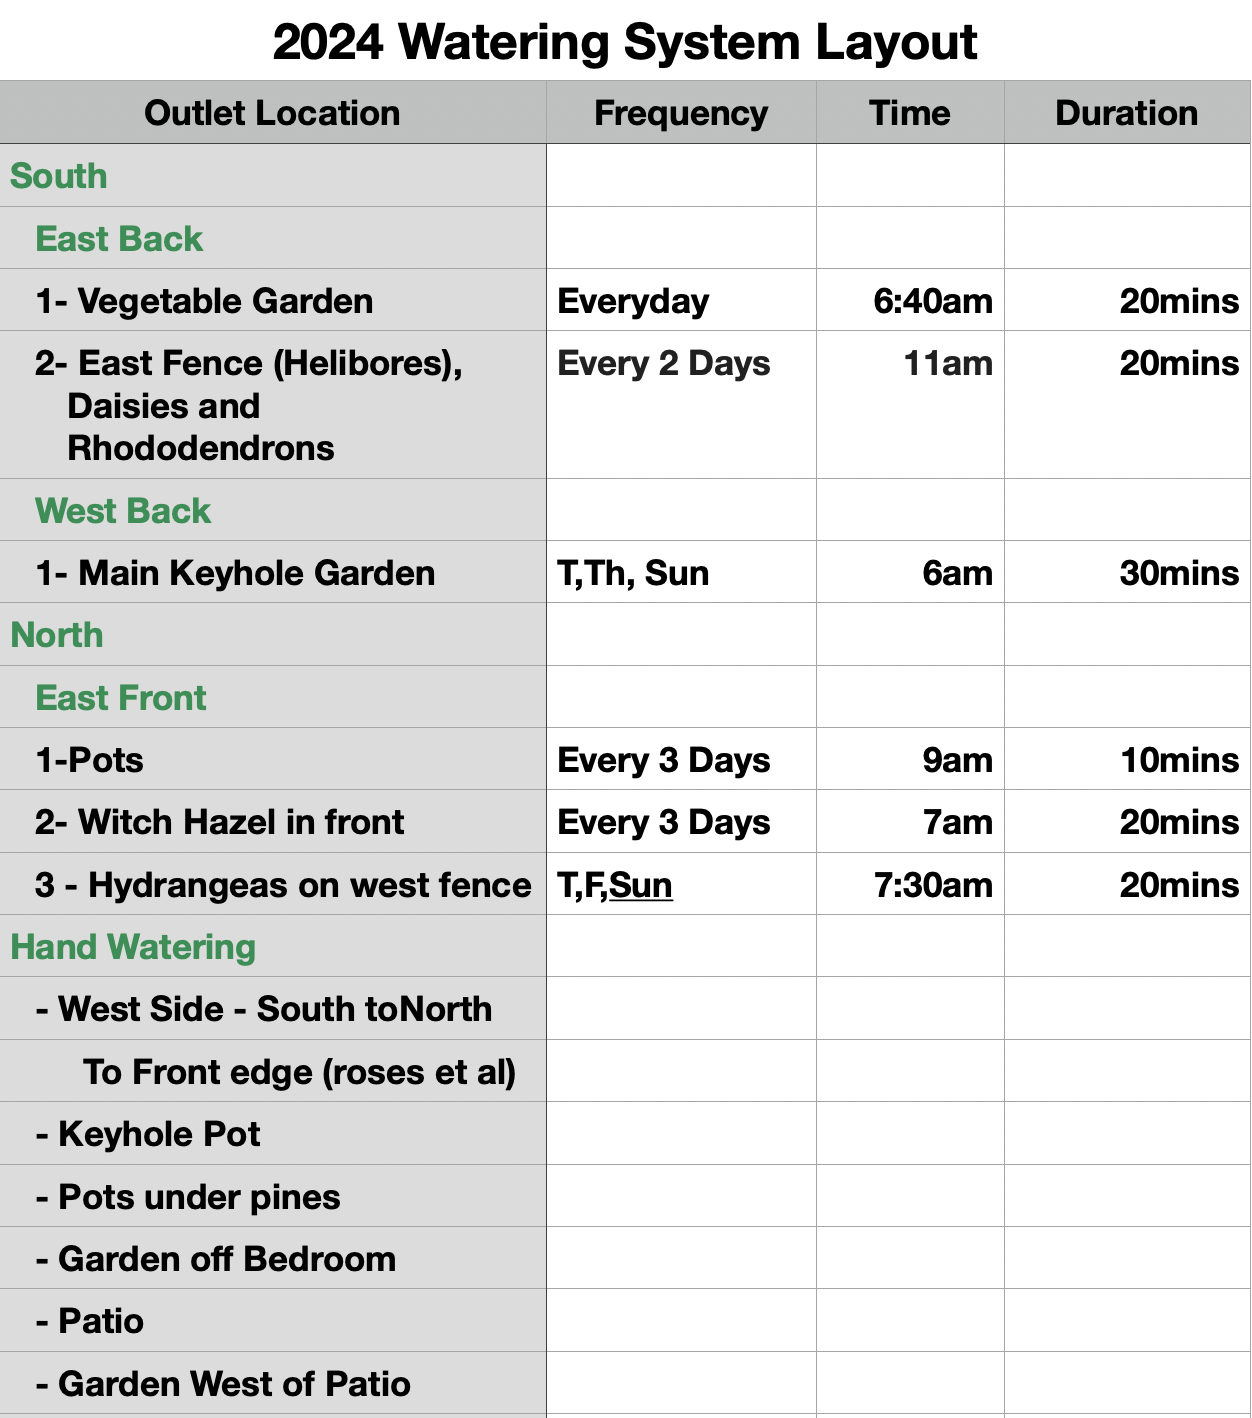
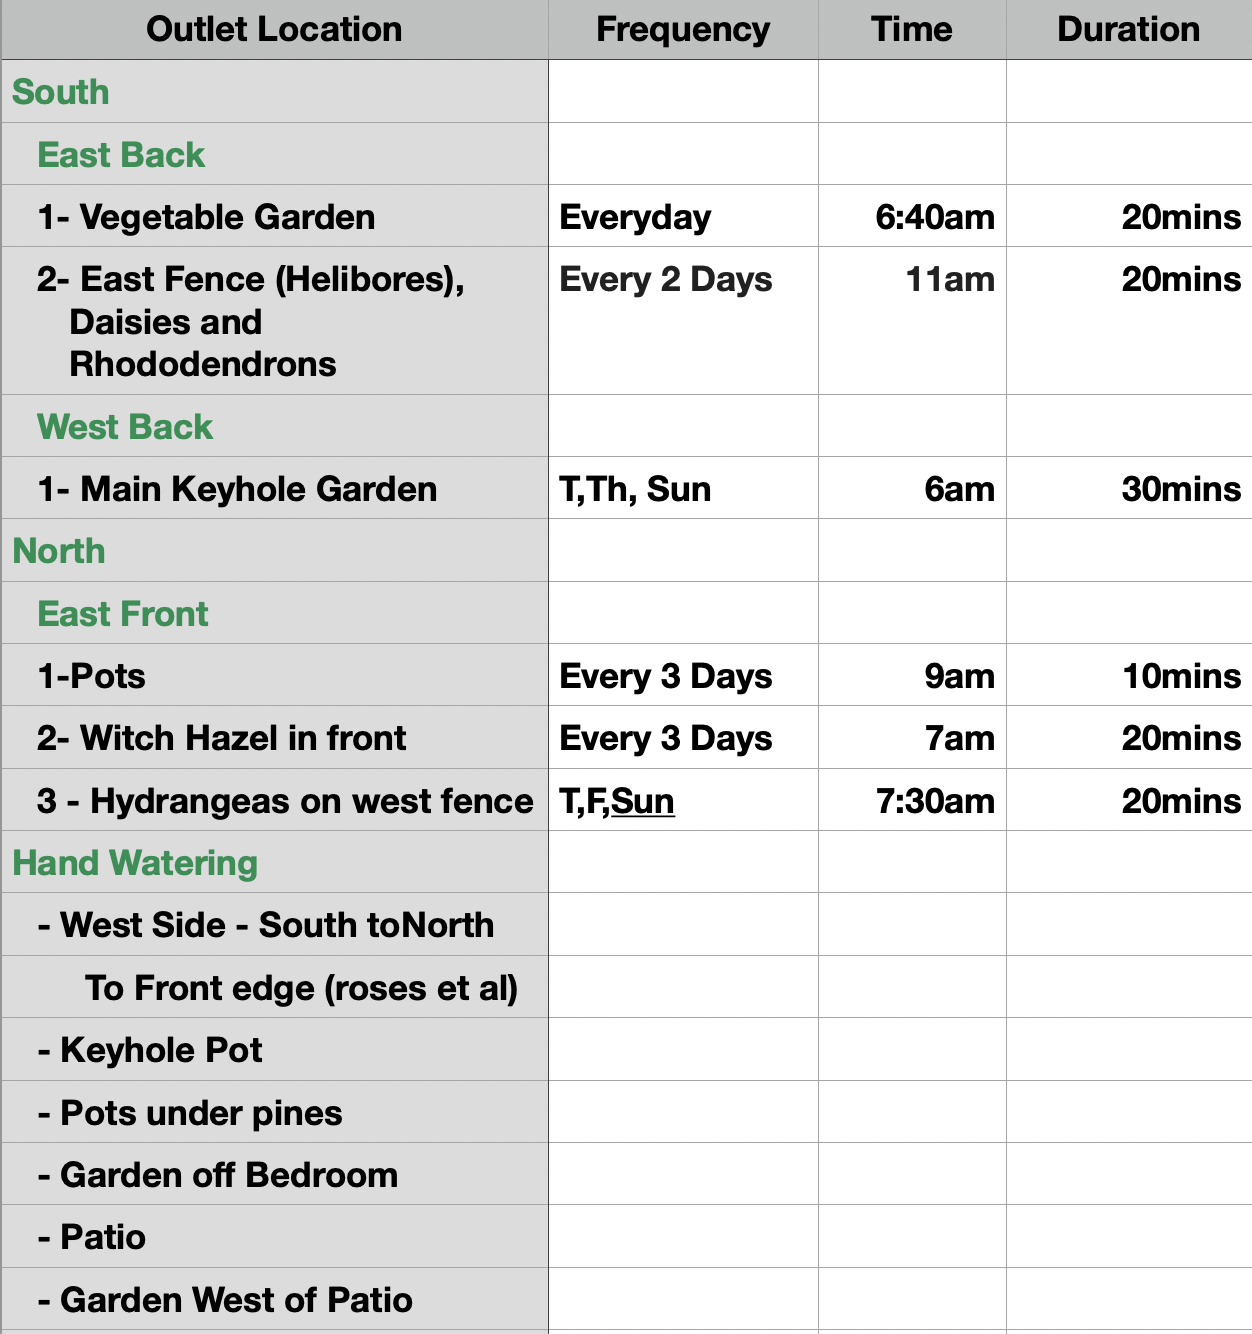
-mWatering Image update

diff --git a/src/views/waterings/WateringDisplay.vue b/src/views/waterings/WateringDisplay.vue
@@ -3,11 +3,7 @@
   <v-card class="mx-auto mt-5">
     <v-card-title class="pb-0">
       <h2>Watering System</h2>
-      <h2 id="status-message">
-        <u>{{ this.statusMessage }}</u>
-      </h2>
     </v-card-title>
-    <br/>
     <v-img
           :src="require('../../assets/WateringSystemLayoutSummer2024.png')"
           class="my-3"
